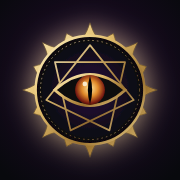
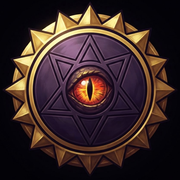
Nouvelle identité : icône de l'app, emblème, titre illustré et écran de chargement
Claude-Session: https://claude.ai/code/session_01CUyhbiofHtX7WBrtcLZEpz

diff --git a/index.html b/index.html
@@ -31,22 +31,8 @@
 <div id="overlay-root"></div>
 <div id="toasts"></div>
 <div id="boot" class="boot" role="status" aria-label="Chargement d’ABYSSAL">
-  <div class="boot-glow"></div>
-  <div class="boot-inner">
-    <svg class="emblem boot-emblem" viewBox="0 0 100 100" aria-hidden="true"><defs>
-<linearGradient id="emG" x1="0" y1="0" x2="1" y2="1"><stop offset="0" stop-color="#FFF4C8"/><stop offset=".35" stop-color="#E2BE6E"/><stop offset=".7" stop-color="#9C7330"/><stop offset="1" stop-color="#F3DA95"/></linearGradient>
-<radialGradient id="emI" cx=".5" cy=".45" r=".6"><stop offset="0" stop-color="#FFE9A0"/><stop offset=".45" stop-color="#E08A2A"/><stop offset=".8" stop-color="#7A1F12"/><stop offset="1" stop-color="#2A0808"/></radialGradient>
-<radialGradient id="emB" cx=".5" cy=".5" r=".5"><stop offset="0" stop-color="#2A1240"/><stop offset="1" stop-color="#07060B"/></radialGradient></defs>
-<path d="M44.94 11.33Q48.04 7.04 50.00 0.50Q51.96 7.04 55.06 11.33ZM60.13 12.34Q64.63 9.57 67.22 8.43Q68.25 11.06 69.47 16.21ZM73.77 19.08Q78.99 18.24 85.00 15.00Q81.76 21.01 80.92 26.23ZM83.79 30.53Q88.94 31.75 91.57 32.78Q90.43 35.37 87.66 39.87ZM88.67 44.94Q92.96 48.04 99.50 50.00Q92.96 51.96 88.67 55.06ZM87.66 60.13Q90.43 64.63 91.57 67.22Q88.94 68.25 83.79 69.47ZM80.92 73.77Q81.76 78.99 85.00 85.00Q78.99 81.76 73.77 80.92ZM69.47 83.79Q68.25 88.94 67.22 91.57Q64.63 90.43 60.13 87.66ZM55.06 88.67Q51.96 92.96 50.00 99.50Q48.04 92.96 44.94 88.67ZM39.87 87.66Q35.37 90.43 32.78 91.57Q31.75 88.94 30.53 83.79ZM26.23 80.92Q21.01 81.76 15.00 85.00Q18.24 78.99 19.08 73.77ZM16.21 69.47Q11.06 68.25 8.43 67.22Q9.57 64.63 12.34 60.13ZM11.33 55.06Q7.04 51.96 0.50 50.00Q7.04 48.04 11.33 44.94ZM12.34 39.87Q9.57 35.37 8.43 32.78Q11.06 31.75 16.21 30.53ZM19.08 26.23Q18.24 21.01 15.00 15.00Q21.01 18.24 26.23 19.08ZM30.53 16.21Q31.75 11.06 32.78 8.43Q35.37 9.57 39.87 12.34Z" fill="url(#emG)" stroke="#5A3E14" stroke-width=".4"/>
-<circle cx="50" cy="50" r="40" fill="url(#emB)" stroke="url(#emG)" stroke-width="1.8"/>
-<circle cx="50" cy="50" r="36.5" fill="none" stroke="url(#emG)" stroke-width=".6" stroke-dasharray="1.2 2.2" opacity=".8"/>
-<path d="M50.00 17.00L82.17 57.34L35.68 79.73L24.20 29.42L75.80 29.42L64.32 79.73L17.83 57.34Z" fill="none" stroke="url(#emG)" stroke-width="1.3" stroke-linejoin="round" opacity=".9"/>
-<g class="em-eye"><path d="M24 50Q50 27 76 50Q50 73 24 50Z" fill="#0B0710" stroke="url(#emG)" stroke-width="2"/>
-<circle cx="50" cy="50" r="11" fill="url(#emI)"/>
-<path d="M50 39.5Q53.2 50 50 60.5Q46.8 50 50 39.5Z" fill="#050305"/>
-<circle cx="46.2" cy="45.5" r="1.7" fill="#FFF8E0" opacity=".85"/></g></svg>
-    <h1 class="boot-word"><span>ABYSSAL</span></h1>
-    <p class="boot-tag"><i></i>Le Bestiaire interdit<i></i></p>
+    <div class="boot-inner">
+    <h1 class="boot-title"><img src="assets/brand/title.webp" alt="ABYSSAL — Le Bestiaire interdit"></h1>
     <p class="err"></p>
   </div>
 </div>

diff --git a/js/ui/icons.js b/js/ui/icons.js
@@ -62,30 +62,8 @@ export const SIGILS = {
   artificiel: S('<circle cx="16" cy="16" r="6"/><path d="M16 4v3.5M16 24.5V28M4 16h3.5M24.5 16H28M7.5 7.5 10 10M22 22l2.5 2.5M7.5 24.5 10 22M22 10l2.5-2.5"/><path d="M14 13.5h4l-3 5h3"/>'),
 };
 
-// Emblème du jeu : sceau à sept branches et œil.
-// Emblème : œil reptilien dans un sceau à sept branches, couronne d'épines dorées.
-export const EMBLEM = (() => {
-  const P = (r, a) => `${(50 + Math.cos(a) * r).toFixed(2)} ${(50 + Math.sin(a) * r).toFixed(2)}`;
-  let crown = '';
-  for (let i = 0; i < 16; i++) {
-    const a = -Math.PI / 2 + (i * Math.PI) / 8, w = 0.13, r = i % 2 ? 45 : 49.5;
-    crown += `M${P(39, a - w)}Q${P(43, a - w * .35)} ${P(r, a)}Q${P(43, a + w * .35)} ${P(39, a + w)}Z`;
-  }
-  let star = '';
-  for (let i = 0; i < 7; i++) star += `${i ? 'L' : 'M'}${P(33, -Math.PI / 2 + (i * 4 * Math.PI) / 7)}`;
-  return `<svg class="emblem" viewBox="0 0 100 100" aria-hidden="true"><defs>
-<linearGradient id="emG" x1="0" y1="0" x2="1" y2="1"><stop offset="0" stop-color="#FFF4C8"/><stop offset=".35" stop-color="#E2BE6E"/><stop offset=".7" stop-color="#9C7330"/><stop offset="1" stop-color="#F3DA95"/></linearGradient>
-<radialGradient id="emI" cx=".5" cy=".45" r=".6"><stop offset="0" stop-color="#FFE9A0"/><stop offset=".45" stop-color="#E08A2A"/><stop offset=".8" stop-color="#7A1F12"/><stop offset="1" stop-color="#2A0808"/></radialGradient>
-<radialGradient id="emB" cx=".5" cy=".5" r=".5"><stop offset="0" stop-color="#2A1240"/><stop offset="1" stop-color="#07060B"/></radialGradient></defs>
-<path d="${crown}" fill="url(#emG)" stroke="#5A3E14" stroke-width=".4"/>
-<circle cx="50" cy="50" r="40" fill="url(#emB)" stroke="url(#emG)" stroke-width="1.8"/>
-<circle cx="50" cy="50" r="36.5" fill="none" stroke="url(#emG)" stroke-width=".6" stroke-dasharray="1.2 2.2" opacity=".8"/>
-<path d="${star}Z" fill="none" stroke="url(#emG)" stroke-width="1.3" stroke-linejoin="round" opacity=".9"/>
-<g class="em-eye"><path d="M24 50Q50 27 76 50Q50 73 24 50Z" fill="#0B0710" stroke="url(#emG)" stroke-width="2"/>
-<circle cx="50" cy="50" r="11" fill="url(#emI)"/>
-<path d="M50 39.5Q53.2 50 50 60.5Q46.8 50 50 39.5Z" fill="#050305"/>
-<circle cx="46.2" cy="45.5" r="1.7" fill="#FFF8E0" opacity=".85"/></g></svg>`;
-})();
+// Emblème du jeu : le sceau illustré (œil reptilien, étoile, couronne d'épines dorées).
+export const EMBLEM = '<img class="emblem" src="assets/brand/emblem.webp" alt="" aria-hidden="true">';
 
 export const icon = (name) => ICONS[name] || '';
 export const sigil = (faction) => (factionArtReady(Object.keys(SIGILS)) && SIGILS[faction] ? `<img class="sigil sigil-img" alt="" src="assets/factions/${faction}.webp">` : SIGILS[faction] || '');

diff --git a/sw.js b/sw.js
@@ -1,7 +1,7 @@
 // Service worker d'ABYSSAL : l'application et les données sont mises en cache
 // pour fonctionner hors ligne après une première visite. Incrémenter VERSION à
 // chaque publication pour que les joueurs reçoivent la mise à jour.
-const VERSION = 'abyssal-v68';
+const VERSION = 'abyssal-v70';
 const CORE = [
   './', 'index.html', 'manifest.webmanifest',
   'css/base.css', 'css/card.css', 'css/screens.css', 'css/army.css',
@@ -18,7 +18,7 @@ const CORE = [
   'data/cards/necrotique.json', 'data/cards/primordial.json', 'data/cards/artificiel.json',
   'assets/art/manifest.json',
   ...['standard', 'premium', 'event', 'infernal', 'abyssal', 'celeste', 'sauvage', 'necrotique', 'primordial', 'artificiel'].map((k) => `assets/packs/${k}.webp`),
-  'assets/backs/back.webp',
+  'assets/backs/back.webp', 'assets/brand/emblem.webp', 'assets/brand/title.webp', 'assets/brand/loading.webp',
   ...['bg-1', 'bg-2', 'bg-3', 'bg-4', 'bg-boss'].map((k) => `assets/battle/${k}.webp`),
   ...['home', 'descent', 'shop', 'collection', 'team', 'chests', 'bestiary', 'trophies', 'profile', 'menu', 'factions', 'door-fight', 'door-elite', 'door-boss', 'rest', 'altar', 'treasure'].map((k) => `assets/scenes/${k}.webp`),
   ...['holo', 'gold-leaf', 'gold-frame', 'cosmic', 'cosmic-frame', 'seal-frame'].map((k) => `assets/variants/${k}.webp`),

diff --git a/css/army.css b/css/army.css
@@ -256,3 +256,13 @@ body.battle-mode.scene::before { display: none; }
 .dc-door.r-elite.has-art { border-color: rgba(194, 102, 255, .6); box-shadow: inset 0 0 30px rgba(0, 0, 0, .7), 0 0 18px rgba(194, 102, 255, .25); }
 .dc-door.r-boss.has-art { min-height: 280px; }
 .dc-door.has-art:active .dc-door-art { transform: scale(1.04); }
+
+/* Identité : écran de chargement illustré et titre */
+.boot { background: #050407 url(../assets/brand/loading.webp) center top / min(100vw, 102vh * .56) auto no-repeat !important; align-items: start !important; padding-top: calc(env(safe-area-inset-top) + min(98vw, 54vh, 520px)) !important; overflow-y: auto !important; }
+@media (min-aspect-ratio: 3/4) { .boot { background-size: auto 62vh !important; padding-top: 60vh !important; } }
+.boot-title { margin: 0; animation: brandIn 1s .3s ease both; }
+@keyframes brandIn { from { opacity: 0; transform: translateY(10px) scale(.96); } }
+.boot-title img { width: min(80vw, 380px); height: auto; display: block; margin: 0 auto; filter: drop-shadow(0 0 22px rgba(0, 0, 0, .9)); }
+.hb-title { margin: 6px 0 0; }
+.hb-title img { width: min(88vw, 420px); height: auto; display: block; margin: 0 auto; filter: drop-shadow(0 4px 10px rgba(0, 0, 0, .9)); }
+img.emblem { object-fit: contain; }

diff --git a/js/screens/home.js b/js/screens/home.js
@@ -37,9 +37,7 @@ export default function home(app, root) {
 
   root.innerHTML = `
     <section class="home-brand">
-      <span class="hb-emblem">${EMBLEM}</span>
-      <h1 class="wordmark">ABYSSAL</h1>
-      <p class="tagline"><i></i>Le Bestiaire interdit<i></i></p>
+      <h1 class="hb-title"><img src="assets/brand/title.webp" alt="ABYSSAL — Le Bestiaire interdit"></h1>
     </section>
 
     <div class="home-acts">
